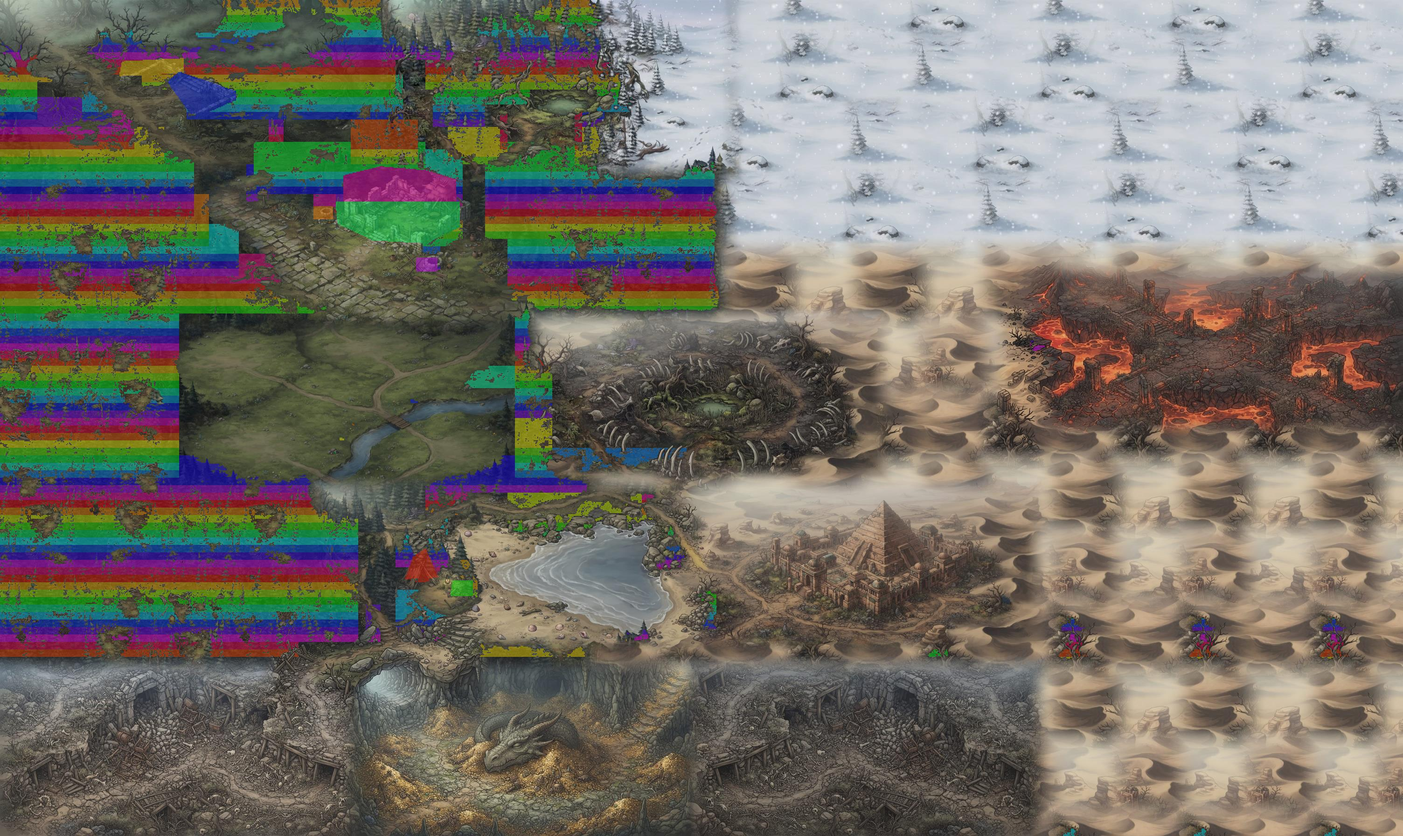
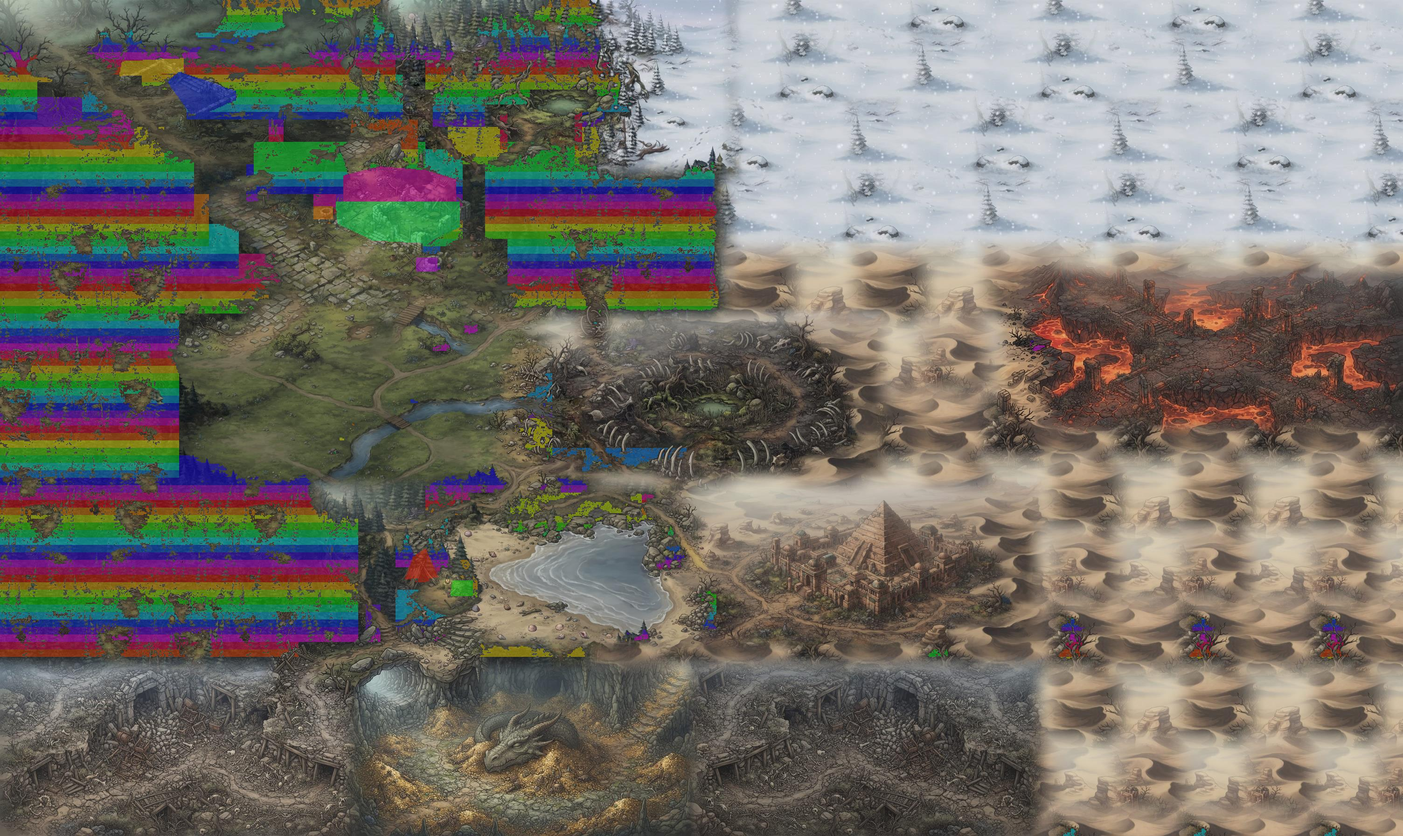
黑暗大陸：大地圖接縫第二批 4 條 AI 補畫（沼澤↔古泉、村落↔草原、草原↔綠洲），可走範圍跟著新畫面調整，20261019n

Changed region(s): [[0.0938, 0.3125, 0.4375, 0.625], [0.2188, 0.0, 0.3125, 0.2812]]

diff --git a/屠龍勇者/index.html b/屠龍勇者/index.html
@@ -877,44 +877,44 @@
 <div id="toast-layer"></div>
 
 <!-- 載入順序：設定 → 資料 → 玩家 → 系統 → 介面 → 進入點（換版時所有 ?v= 一起改，見 ARCHITECTURE.md） -->
-<script src="data/config.js?v=20261019m"></script>
-<script src="data/classes.js?v=20261019m"></script>
-<script src="data/skills.js?v=20261019m"></script>
-<script src="data/items.js?v=20261019m"></script>
-<script src="data/spellbook.js?v=20261019m"></script>
-<script src="data/monsters.js?v=20261019m"></script>
-<script src="data/zones.js?v=20261019m"></script>
-<script src="data/quests.js?v=20261019m"></script>
-<script src="data/resonance.js?v=20261019m"></script>
-<script src="data/player.js?v=20261019m"></script>
-<script src="data/enchant.js?v=20261019m"></script>
-<script src="data/affix.js?v=20261019m"></script>
-<script src="data/craft.js?v=20261019m"></script>
-<script src="data/maps.js?v=20261019m"></script>
-<script src="data/combat.js?v=20261019m"></script>
-<script src="data/town.js?v=20261019m"></script>
-<script src="data/save.js?v=20261019m"></script>
-<script src="data/cloud.js?v=20261019m"></script>
-<script src="data/offline.js?v=20261019m"></script>
-<script src="data/ui.js?v=20261019m"></script>
-<script src="data/sfx.js?v=20261019m"></script>
-<script src="data/bgm.js?v=20261019m"></script>
-<script src="data/ui-create.js?v=20261019m"></script>
-<script src="data/ui-panels.js?v=20261019m"></script>
-<script src="data/codex.js?v=20261019m"></script>
-<script src="data/raid.js?v=20261019m"></script>
-<script src="data/clan.js?v=20261019m"></script>
-<script src="data/chat.js?v=20261019m"></script>
-<script src="data/rank.js?v=20261019m"></script>
-<script src="data/wb.js?v=20261019m"></script>
-<script src="data/market.js?v=20261019m"></script>
-<script src="data/vault.js?v=20261019m"></script>
-<script src="data/presence.js?v=20261019m"></script>
-<script src="data/ui-frame.js?v=20261019m"></script>
-<script src="data/icons.js?v=20261019m"></script>
-<script src="data/hotbar.js?v=20261019m"></script>
-<script src="data/ui-scene.js?v=20261019m"></script>
-<script src="data/pwa.js?v=20261019m"></script>
-<script src="data/main.js?v=20261019m"></script>
+<script src="data/config.js?v=20261019n"></script>
+<script src="data/classes.js?v=20261019n"></script>
+<script src="data/skills.js?v=20261019n"></script>
+<script src="data/items.js?v=20261019n"></script>
+<script src="data/spellbook.js?v=20261019n"></script>
+<script src="data/monsters.js?v=20261019n"></script>
+<script src="data/zones.js?v=20261019n"></script>
+<script src="data/quests.js?v=20261019n"></script>
+<script src="data/resonance.js?v=20261019n"></script>
+<script src="data/player.js?v=20261019n"></script>
+<script src="data/enchant.js?v=20261019n"></script>
+<script src="data/affix.js?v=20261019n"></script>
+<script src="data/craft.js?v=20261019n"></script>
+<script src="data/maps.js?v=20261019n"></script>
+<script src="data/combat.js?v=20261019n"></script>
+<script src="data/town.js?v=20261019n"></script>
+<script src="data/save.js?v=20261019n"></script>
+<script src="data/cloud.js?v=20261019n"></script>
+<script src="data/offline.js?v=20261019n"></script>
+<script src="data/ui.js?v=20261019n"></script>
+<script src="data/sfx.js?v=20261019n"></script>
+<script src="data/bgm.js?v=20261019n"></script>
+<script src="data/ui-create.js?v=20261019n"></script>
+<script src="data/ui-panels.js?v=20261019n"></script>
+<script src="data/codex.js?v=20261019n"></script>
+<script src="data/raid.js?v=20261019n"></script>
+<script src="data/clan.js?v=20261019n"></script>
+<script src="data/chat.js?v=20261019n"></script>
+<script src="data/rank.js?v=20261019n"></script>
+<script src="data/wb.js?v=20261019n"></script>
+<script src="data/market.js?v=20261019n"></script>
+<script src="data/vault.js?v=20261019n"></script>
+<script src="data/presence.js?v=20261019n"></script>
+<script src="data/ui-frame.js?v=20261019n"></script>
+<script src="data/icons.js?v=20261019n"></script>
+<script src="data/hotbar.js?v=20261019n"></script>
+<script src="data/ui-scene.js?v=20261019n"></script>
+<script src="data/pwa.js?v=20261019n"></script>
+<script src="data/main.js?v=20261019n"></script>
 </body>
 </html>

diff --git a/屠龍勇者/data/ui-scene.js b/屠龍勇者/data/ui-scene.js
@@ -101,7 +101,7 @@ const SCENE_BGS = {
     // 2026-10-18 使用者改成「5 個真的地圖合併」：海灘＝低語海岸、草原與古泉＝迷霧古林、廢村＝沉船海灣、沼澤＝紫霧遺跡；
     // 走進別區就自動換成那個地圖（怪物、等級、掉落跟著換，sceneEnterZone），這幾個地圖共用同一個畫面（sceneKey 'zone:wild'）
     wild: {
-        src: 'images/maps/wild.jpg?v=5', mini: 'images/maps/wild-mini.jpg?v=5', occ: 'images/maps/wild-occ.png', w: 188,   // 2026-10-19 往東加熔火煉獄（第 57 節），141 → 188 欄   // ?v=：圖改過就加 1（SW 會先給快取的舊圖）
+        src: 'images/maps/wild.jpg?v=6', mini: 'images/maps/wild-mini.jpg?v=6', occ: 'images/maps/wild-occ.png', w: 188,   // 2026-10-19 往東加熔火煉獄（第 57 節），141 → 188 欄   // ?v=：圖改過就加 1（SW 會先給快取的舊圖）
         h: 112, start: [63, 78], big: true,   // 2026-10-18 往南加一排（第 49 節）：腐朽礦坑・上層／沉眠龍窟／腐朽礦坑・深層，88 → 112 列
         // 野外 NPC（第 55 節）：站的格子不能走；點名牌對話（act 呼叫 ui-panels.js 的 openKeeper）；to＝要送去的地圖；front＝「飛到 NPC 面前」的落點
         fieldNpcs: [
@@ -145,6 +145,7 @@ const SCENE_BGS = {
             [153, 44, 168, 51], [151, 46, 170, 50], [155, 43, 165, 44],                           // 熔火煉獄：中間符文廣場
             [141, 39, 151, 43], [150, 41, 154, 45], [166, 38, 186, 43], [165, 41, 169, 45],     // 左上、右上遺跡平台與階梯
             [140, 51, 152, 57], [149, 50, 155, 53], [168, 51, 186, 57], [166, 50, 170, 53], [182, 46, 187, 52],   // 左下、右下岩地、右邊岩島（西邊接焦骨峽谷沙丘）
+            [36, 39, 44, 41], [70, 44, 73, 52],                                                  // 接縫補畫後：村落往草原的石板路、草原與骨骸地之間的空地（第 58 節）
         ],
         block: [
             [16, 8, 24, 9], [23, 10, 31, 12], [25, 13, 27, 15], [36, 16, 37, 18],
@@ -157,6 +158,7 @@ const SCENE_BGS = {
             [111, 90, 126, 99], [127, 93, 132, 98], [134, 98, 140, 103], [94, 95, 107, 104], [118, 108, 121, 111],   // 礦坑深層（上層左右翻轉）
             [145, 49, 147, 52], [150, 51, 152, 54], [156, 43, 157, 46], [150, 38, 152, 41], [167, 39, 170, 43], [173, 51, 175, 54], [176, 51, 181, 52],   // 熔火煉獄：石柱、右下的熔岩溪
             [92, 80, 95, 84], [49, 84, 50, 85], [138, 43, 140, 46],                                  // 接縫補畫後新畫的碎石堆、路上大石、流進沙丘的熔岩（第 58 節）
+            [57, 42, 58, 43], [58, 44, 61, 46], [61, 46, 63, 47],                                   // 接縫補畫第二批：草原上新畫的小溪（木橋可走）
         ],
     },
 };

diff --git a/屠龍勇者/data/config.js b/屠龍勇者/data/config.js
@@ -1,6 +1,6 @@
 // 屠龍勇者：全域設定、常數、共用小工具（最先載入，不依賴其他檔案）
 const GAME_TITLE = '黑暗大陸';   // 遊戲名稱（2026-10-12 由「屠龍勇者」改名；資料夾與網址不變）
-const GAME_VERSION = '20261019m';
+const GAME_VERSION = '20261019n';
 
 // 與凡塵修仙傳同網域，localStorage 共用，key 一定要有 dragonSlayer_ 前綴
 const SAVE_KEY = 'dragonSlayer_save_v2';   // 欄位 0；其他欄位是 SAVE_KEY + '_s' + 編號（save.js slotKey）

diff --git a/屠龍勇者/ARCHITECTURE.md b/屠龍勇者/ARCHITECTURE.md
@@ -69,7 +69,7 @@
 
 ## 3. 開發規則
 
-- **版本號**：改任何 JS 都要把 `index.html` 全部 `?v=` 與 `config.js` 的 `GAME_VERSION` 一起換新（目前 `20261019m`）。
+- **版本號**：改任何 JS 都要把 `index.html` 全部 `?v=` 與 `config.js` 的 `GAME_VERSION` 一起換新（目前 `20261019n`）。
 - **合併衝突**：合併後一定要搜尋 `<<<<<<<`。2026-10-09 曾把衝突標記留在 `index.html`／`config.js`／`ui-scene.js`，
   整個遊戲載不起來（看起來像「存檔壞掉」，其實存檔還在），`20261009u` 修復時採用較新的 `20261009t` 那一邊。
   SW 依版本號快取 JS，**沒換版本號，已安裝 App 的玩家會一直跑舊程式**。
@@ -1717,7 +1717,7 @@ python3 tools/cut-sprites.py tools/sprite-src/mage-walk.json --preview 預覽.pn
 - 驗證：永夜王都傳送到熔火煉獄 → 大地圖、出生在符文廣場、怪是火之精靈／熔岩高崙／火蜥蜴；往西走到 140,53 換成焦骨峽谷；Console 無錯誤。
 - 大地圖現在包含 11 個地圖（第 49 節的 10 個＋熔火煉獄；熔火煉獄原本的地監格子畫面不再用）。
 
-## 58. 大地圖接縫 AI 補畫（2026-10-19，版本 `20261019m`；`tools/bigmap/seams/`、`build-map.ps1` 的 `Patch`）
+## 58. 大地圖接縫 AI 補畫（2026-10-19，版本 `20261019m`、`20261019n`；`tools/bigmap/seams/`、`build-map.ps1` 的 `Patch`）
 
 - 使用者嫌地圖銜接粗糙（各張 AI 圖直接貼上、邊緣霧狀淡入、畫風不同），選方案 D「AI 補畫接縫」（沒選 E 改磁磚地圖：要重做地圖系統與整套素材）。
 - `seams/patches.json`：每條接縫一筆 `{ id, x, y, orient: 'v'|'h', at, band, note }`，`x,y`＝1024×1024 方塊在大地圖的左上角（像素，1 格 32px），
@@ -1732,5 +1732,10 @@ python3 tools/cut-sprites.py tools/sprite-src/mage-walk.json --preview 預覽.pn
   可走範圍照 AI 新畫的東西補 3 個擋格（`walk.json` 與 `SCENE_BGS.wild.block` 同步）：金字塔左下碎石堆 [92,80,95,84]、森林小路大石 [49,84,50,85]、流進沙丘的熔岩 [138,43,140,46]；
   可走 9515 格全部能從草原出生點走到。重跑 `build-occ.ps1`，`wild.jpg`／`wild-mini.jpg` 網址改 `?v=5`。
   驗證：本機（`.claude/launch.json` 新增 `dragon-alt` port 8791，8790 被別的對話佔用時用）黃沙王陵 93,75、焦骨峽谷 136,49 截圖，接縫自然、遊戲程式全部載入；預覽瀏覽器註冊 SW 失敗是環境限制（與本次無關）。
+- **第二批（`20261019n`）**：`patches.json` 加 04、06～14（05 雪原接雪地不明顯，拿掉）；`seam-cut.ps1` 改成從**已貼補丁的** `wild.jpg` 切（新補丁與舊的重疊時 AI 看得到舊的成果；補丁照清單順序貼，新的加在最後）。
+  使用者先補好 04 沼澤↔古泉、06／07 村落↔草原、08 草原↔綠洲（對齊 0,0；08 差異 12.3 較大但貼回後看不出邊）。
+  可走範圍：AI 在 07 草原上新畫一條小溪＋木橋 → 擋格 [57,42,58,43]、[58,44,61,46]、[61,46,63,47]（橋可走）；
+  06 森林被畫成往下的石板路 → 新增可走 [36,39,44,41]；08 草原與骨骸地之間那排樹被畫成空地 → 新增可走 [70,44,73,52]。可走 9548 格全部走得到。圖 `?v=6`。
+  09～14 待使用者補畫。另外 07／08 右上（綠洲左上角）與 08 右下（綠洲左下角）還留一點霧，之後可再加補丁。
 - 流程（之後補其他接縫）：`patches.json` 加一筆 → `seam-cut.ps1 -Only id` → 使用者 AI 補畫存 `fixed/` → `seam-check.ps1` → `build-map.ps1` → `seam-compare.ps1` 看效果
   → `check-mask.ps1` 疊可走範圍找 AI 新畫的障礙、補擋格 → `build-occ.ps1` → 圖 `?v=` 加 1、換版本號。

diff --git a/屠龍勇者/AI_HANDOFF.min.md b/屠龍勇者/AI_HANDOFF.min.md
@@ -35,7 +35,7 @@ enchant:<safe always;≥safe 0.5/(over+1.25),fail evaporate;max+15
 offline:login req,last char only,min(away,12h)×50%,sim 10min sample,supply-limited,no drops
 tower 永夜之塔1-100F boss each10F,6h respawn;4 dragons lairs 6h;quests 4ch Lv15/30/45/60
 ## BIGMAP(§45-57)
-images/maps/wild.jpg ?v=4 188×112 cells 32px;11 zones merged(低語海岸 迷霧古林 沉船海灣 紫霧遺跡 焦骨峽谷 永凍荒原 黃沙王陵 腐朽礦坑上層 沉眠龍窟 腐朽礦坑深層 熔火煉獄)=zones with bg:'wild';SCENE_BGS.wild{walk,block,regions[rect,start],occ,fieldNpcs};walk.json master→copy into ui-scene.js;wild-occ.png depth(R=row+1);rebuild map→bump img ?v;regions order matters(first rect match);auto gates;hunt restricted to current zone;keepers:永夜之塔@紫霧遺跡(5,6)、暮光法師塔@深層(132,98)→openKeeper(to)|tower uses images/maps/tower.jpg 40×20 separate scene|known bug:低語海岸 start 63,78 inside block|§58 seam repaint(3 done 20261019m,wild.jpg ?v=5):patches.json→seam-cut.ps1→todo/<id>.png(magenta)→user AI inpaint→fixed/<id>.*→seam-check(align 0,0)→build-map(Patch)→seam-compare→check-mask,add blocks(walk.json+SCENE_BGS.wild.block)→build-occ→img ?v+1,ver bump|alt test server dragon-alt:8791
+images/maps/wild.jpg ?v=4 188×112 cells 32px;11 zones merged(低語海岸 迷霧古林 沉船海灣 紫霧遺跡 焦骨峽谷 永凍荒原 黃沙王陵 腐朽礦坑上層 沉眠龍窟 腐朽礦坑深層 熔火煉獄)=zones with bg:'wild';SCENE_BGS.wild{walk,block,regions[rect,start],occ,fieldNpcs};walk.json master→copy into ui-scene.js;wild-occ.png depth(R=row+1);rebuild map→bump img ?v;regions order matters(first rect match);auto gates;hunt restricted to current zone;keepers:永夜之塔@紫霧遺跡(5,6)、暮光法師塔@深層(132,98)→openKeeper(to)|tower uses images/maps/tower.jpg 40×20 separate scene|known bug:低語海岸 start 63,78 inside block|§58 seam repaint(done 01-04,06-08 =20261019n,wild.jpg ?v=6;09-14 todo cut,awaiting user AI):patches.json→seam-cut.ps1→todo/<id>.png(magenta)→user AI inpaint→fixed/<id>.*→seam-check(align 0,0)→build-map(Patch)→seam-compare→check-mask,add blocks(walk.json+SCENE_BGS.wild.block)→build-occ→img ?v+1,ver bump|alt test server dragon-alt:8791
 ## STATE
 live ver 20261019k(local main==origin after handoff-docs commit)|all 12 classes have sprites(walk/attack/cast/hit)+portraits;黑暗妖精 uses v1 darkelf-*.png(v2-v5 unused),portrait v4|presence OFF(PRES_ON=false,Realtime quota)|systems done:cloud saves,raid,chat,clan,rank,world boss,market,vault/diamonds,sfx/bgm,PWA,multi-char,hotbar,spellbooks,resonance,affix,maps T1-15,bigmap
 ## TODO(ask user before starting any)

diff --git a/屠龍勇者/HANDOFF.md b/屠龍勇者/HANDOFF.md
@@ -5,8 +5,8 @@
 
 ## 1. 現況
 
-- 本機版本 **`20261019m`**（大地圖 3 條接縫 AI 補畫，第 58 節；已 commit，待使用者 Push）。上一版 `20261019l`（負重 70% 以上不回魔）已上線。
-- 大地圖接縫：第一批 3 條補好；其他接縫照 `ARCHITECTURE.md` 第 58 節的流程，使用者想補哪條再加。
+- 本機版本 **`20261019n`**（大地圖接縫第二批 4 條，第 58 節；已 commit，待使用者 Push）。`20261019m`（第一批 3 條）已上線。
+- 大地圖接縫：已補 01～04、06～08；09～14 的待補圖已切好（`tools/bigmap/seams/todo/`），等使用者用 AI 補畫後放進 `seams/fixed/`。
 - 網址：`https://k559610142-art.github.io/-username-.github.io-/屠龍勇者/`（repo `k559610142-art/-username-.github.io-`，GitHub Pages 發佈 `main`）。
 - 已完成的系統（詳見 `ARCHITECTURE.md` 各節）：12 職業（都有人物模型與立繪）＋職業故事／任務線、天堂原版經驗表、衝裝、暗黑式詞綴、
   製作通貨、異界地圖 T1～T15、共鳴裝備、天堂式魔法 1～10 級＋魔法書、快捷欄、離線收益、多角色欄位、
